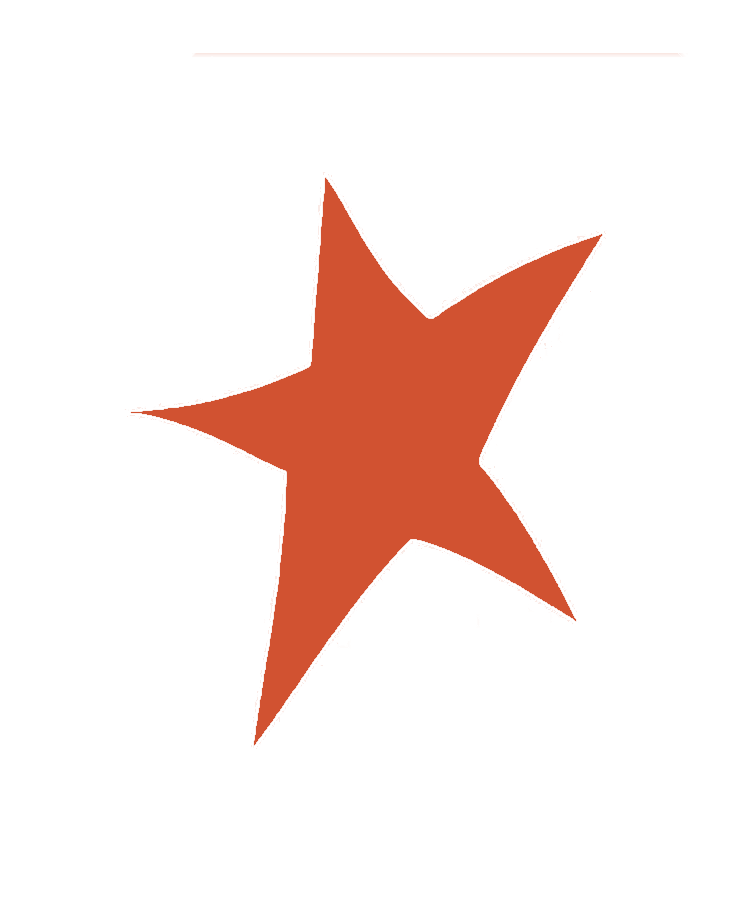
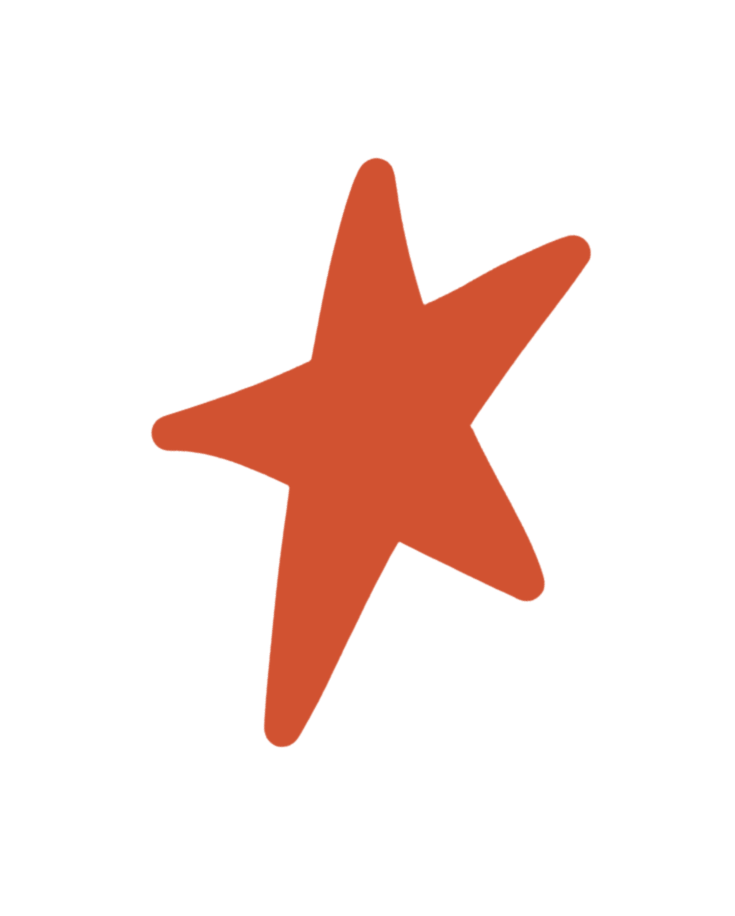
Decoraciones

diff --git a/estilos.css b/estilos.css
@@ -576,7 +576,7 @@ header nav a:not(.boton-nav):hover { color: #D15231; }
 }
 
 .deco17 {
-    width: 360px;
+    width: 340px;
     top: 20px;
     left: 317px;
 }
@@ -1206,7 +1206,7 @@ footer {
     
     h2 { font-size: 32px; }
 
-    .deco1, .deco2, .deco3, .deco4, .deco5, .deco6, .deco7, .deco8, .deco9, .deco10, .deco11, .deco12, .deco13, .deco14, .deco15, .deco16, .deco17, .deco18, .deco19 {
+    .deco1, .deco3, .deco4, .deco5, .deco6, .deco7, .deco8, .deco9, .deco10, .deco11, .deco12, .deco13, .deco14, .deco15, .deco16, .deco17, .deco18, .deco19 {
         max-width: 205px;
     }
 
@@ -1232,7 +1232,11 @@ footer {
 
     .deco1 { top: -30px; right: -80px; }
 
-    .deco2 { bottom: -120px; left: -80px; }
+    .deco2 { 
+        bottom: -120px; 
+        left: -80px; 
+        max-width: 195px; 
+    }
 
 
     /* =============================
